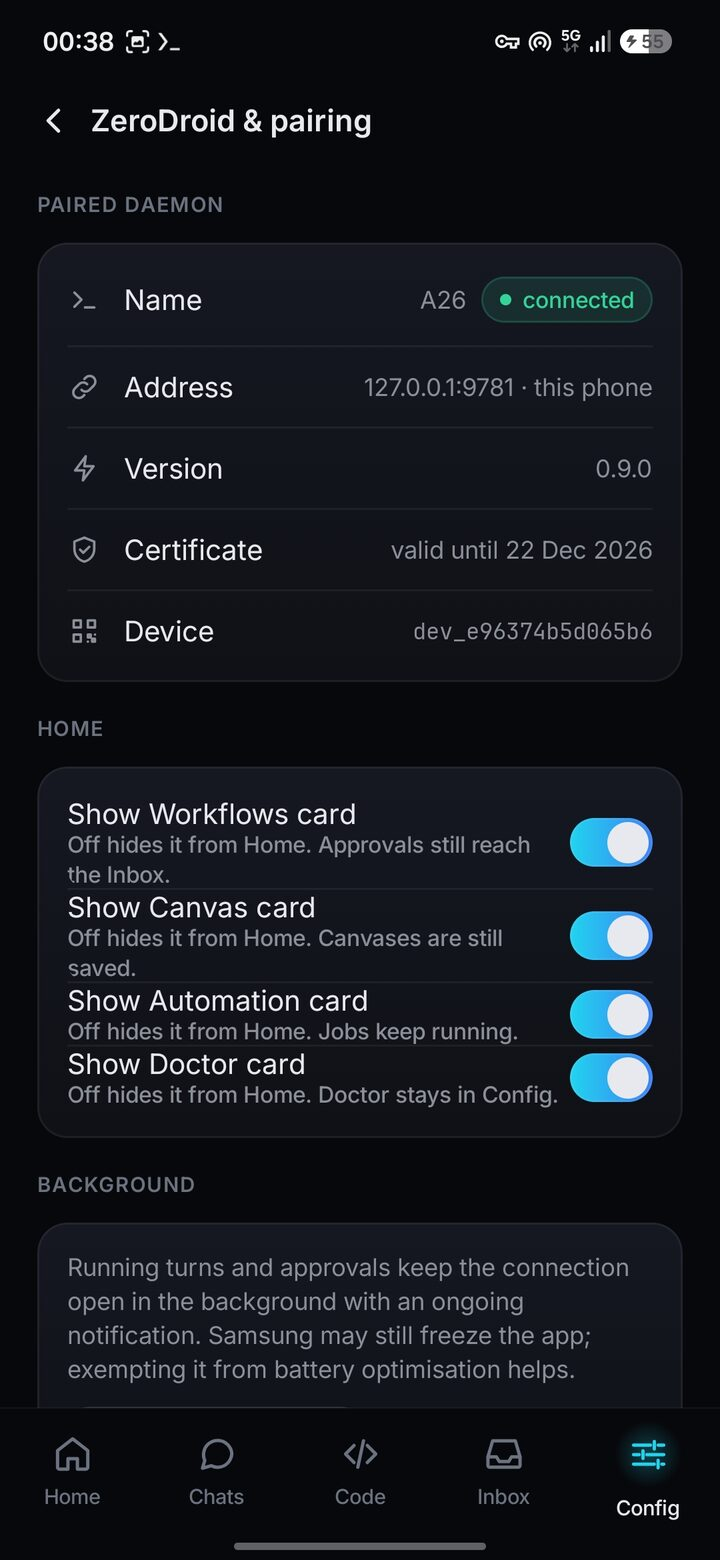
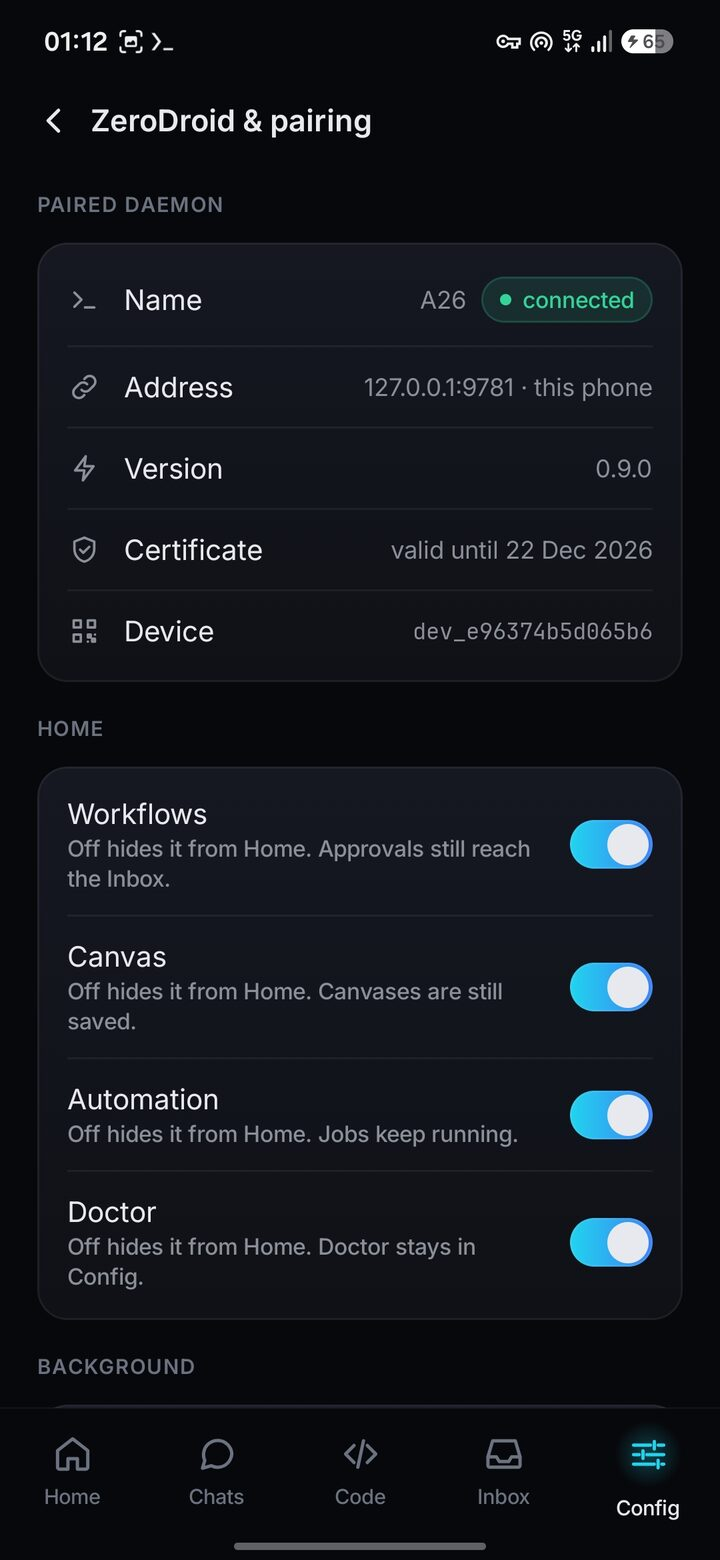
docs(readme): Doctor running and all-passed screenshots, pairing screen with the new Home switches

diff --git a/README.md b/README.md
@@ -163,8 +163,8 @@ memory all stay on the daemon.
 
 | | | |
 |:-:|:-:|:-:|
-| ![Doctor results: one error, two warnings and 151 checks OK, with Fix buttons on the config findings](docs/screenshots/doctor.jpg) | | |
-| Findings with Fix | | |
+| ![Doctor results: one error, two warnings and 151 checks OK, with Fix buttons on the config findings](docs/screenshots/doctor.jpg) | ![Doctor running its checks again after the fixes, with one warning left](docs/screenshots/doctor-running.jpg) | ![All 142 checks passed](docs/screenshots/doctor-passed.jpg) |
+| Findings with Fix | Running the checks | All checks passed |
 
 ## Install
 
